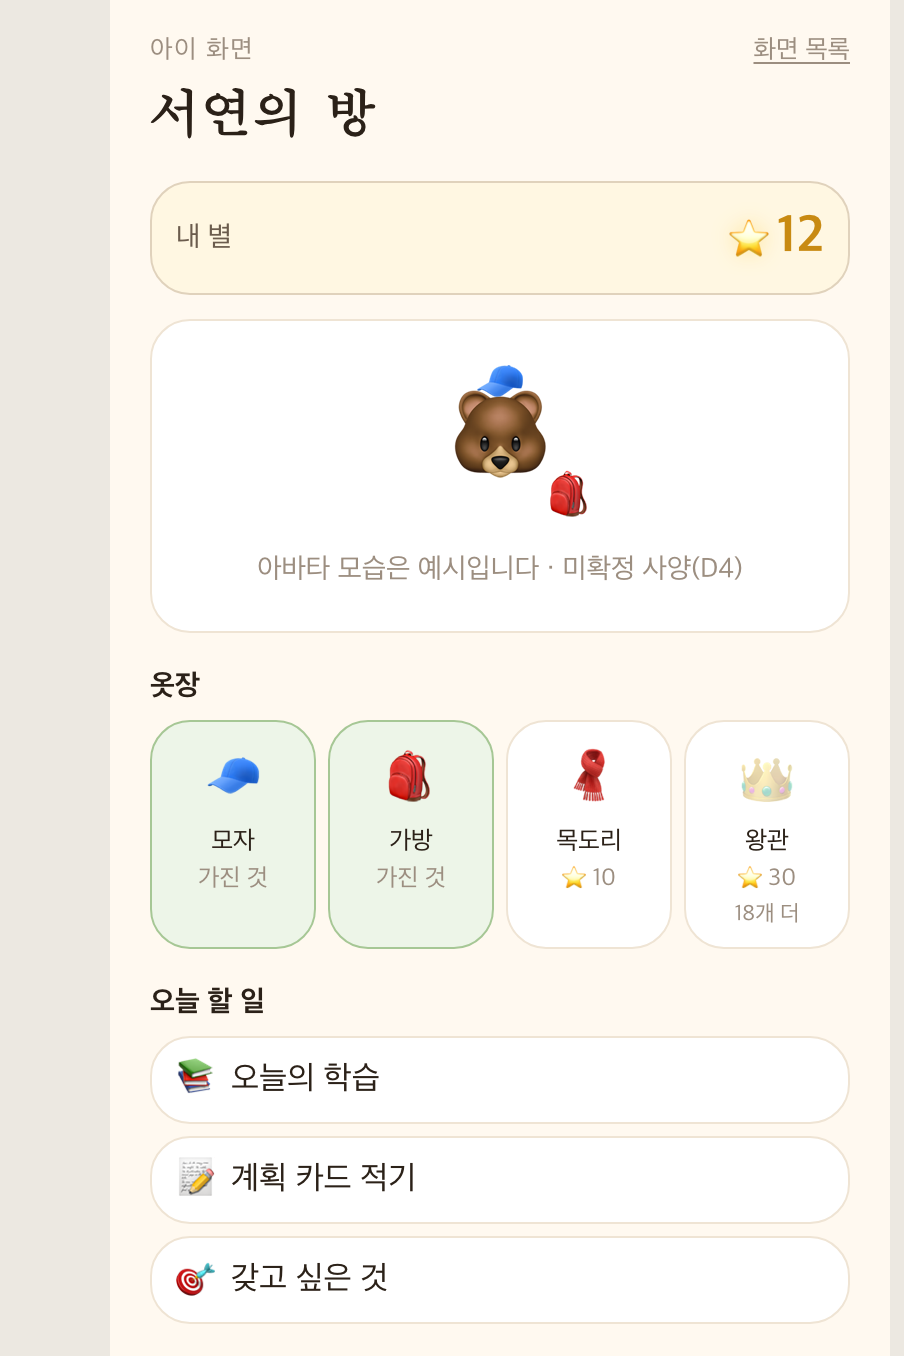
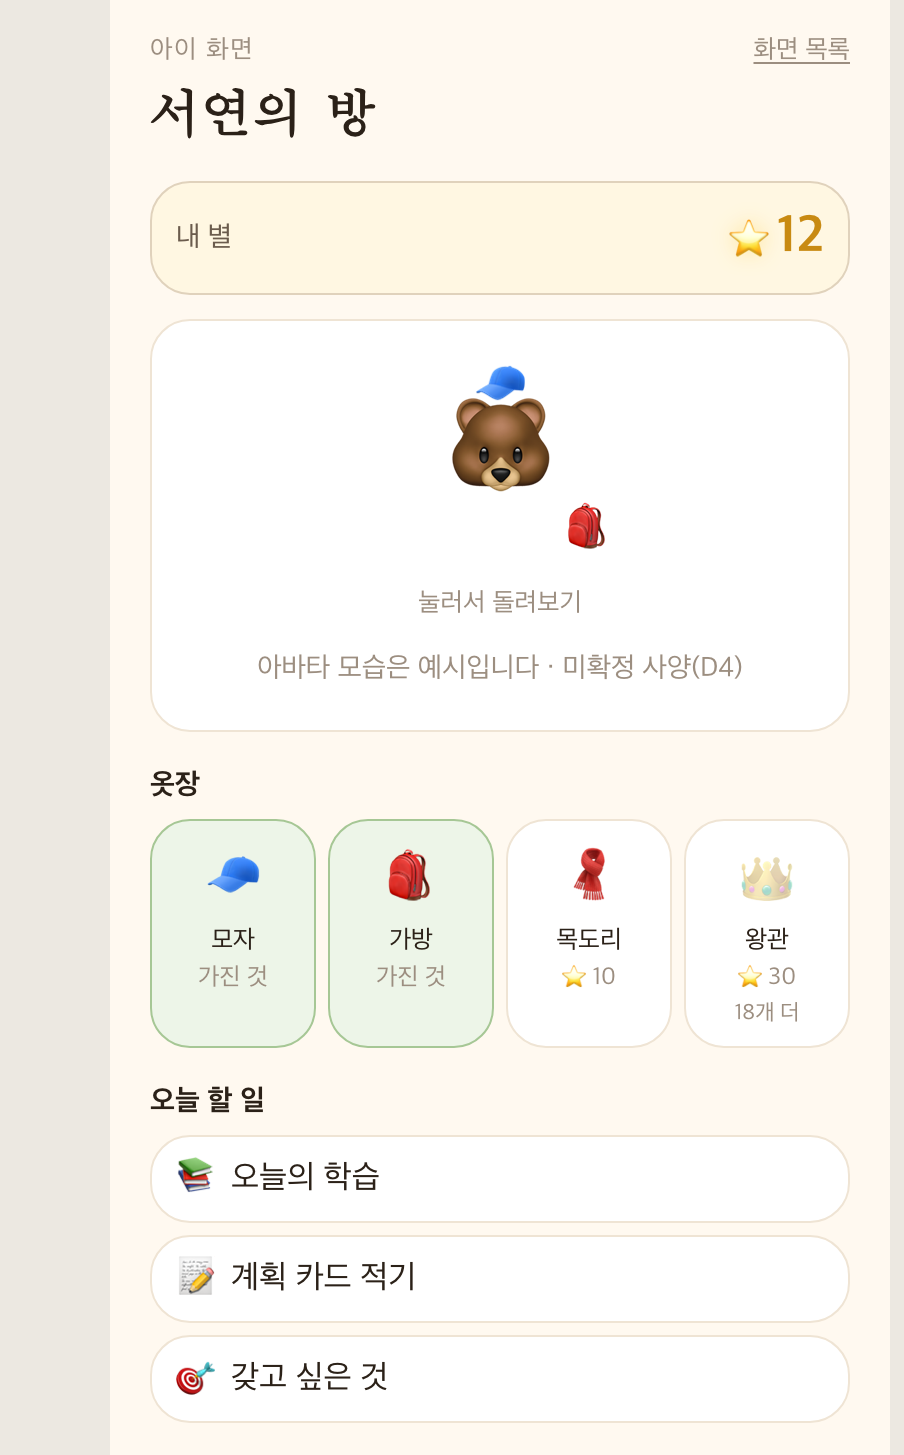
프로토타입: 아바타 회전을 CSS 3D 로 구현 — 렌더러를 추가하지 않는다
three.js 로 할 수 있느냐는 물음에서 출발했다. 기술은 되지만 우리 문서가 반대로 정해 뒀다.

- X2 (충돌 대장) — Tailwind·shadcn 은 3D 렌더러가 아니다 → Lottie 2.5D 로 사양 변경
- REQ-TEC-007 — UI 의존성 0건. 아바타 렌더러(Lottie)는 명시적 예외 1건
- STR-003 제약 — 다른 렌더러를 추가하지 않는다
- ADR-T05 — 3D 유지를 기각한 이유가 에셋 파이프라인·용량·저사양 기기다

그런데 ADR-T05 자신이 전환의 대가로 「회전이 사라진다」를 적었고,
그 전환은 D4 와 함께 아직 승인 전이다. 승인 여부를 판단하려면 회전이 있는 화면을 먼저 봐야 한다.

그래서 렌더러 없이 CSS 3D 로만 세웠다 — transform-style: preserve-3d + rotateY.
- 의존성 추가 0건 · 번들 증가 0KB · D4·B4 게이트를 되살리지 않는다
- 전환은 .ff-avatar-spin 클래스가 갖는다. 인라인 transition 은 prefers-reduced-motion 이 안 걸린다
- 뒷면에 다른 모습을 둔다 — 회전이 무언가를 보여줘야 값어치가 있다
- 촬영 통로 ?face=back 으로 뒷모습을 증거에 남긴다 (스크린샷 15 → 16장)

three.js 도입은 이 화면으로 회전의 값어치를 확인한 뒤에 판단한다.
도입한다면 REQ-TEC-007 예외를 2건으로 늘리는 결정이므로 X2 와 ADR-T05 를 함께 고쳐야 한다.

Refs #33 #63

diff --git a/app/src/components/child/Avatar.tsx b/app/src/components/child/Avatar.tsx
@@ -1,13 +1,57 @@
+"use client";
+
+import { useState } from "react";
+
 /**
- * 아바타 — 🔴 D4 미결(원장 T10). Lottie 2.5D 에셋이 없어 이모지 조합으로 세운다.
- * 에셋이 확정되면 이 컴포넌트만 갈아끼운다. 부르는 쪽은 손대지 않는다.
+ * 아바타 — 🔴 D4 미결(원장 T15). Lottie 2.5D 에셋이 아직 없다.
+ *
+ * 여기서 확인하려는 것은 **「회전」이 아이에게 의미가 있는가** 하나다.
+ * ADR-T05가 3D → 2.5D 전환의 대가로 *"회전이 사라진다"* 를 적어 뒀고, 그 결정은
+ * D4와 함께 **아직 승인 전**이다. 승인을 판단하려면 회전이 있는 화면을 먼저 봐야 한다.
+ *
+ * 그래서 렌더러를 추가하지 않고 **CSS 3D 로만** 세웠다 —
+ * REQ-TEC-007(UI 의존성 0건 · Lottie 예외 1건)을 건드리지 않고, 번들도 늘지 않는다.
+ * three.js 도입은 이 화면으로 회전의 값어치를 확인한 뒤에 판단한다.
  */
-export function Avatar({ face, hat, item }: { face: string; hat: string; item: string }) {
+export type AvatarLook = { face: string; hat: string; item: string; back: string };
+
+export function Avatar({ look, spin = true, initialTurned = false }: {
+  look: AvatarLook; spin?: boolean; initialTurned?: boolean;
+}) {
+  const [turned, setTurned] = useState(initialTurned);
+
   return (
-    <div className="relative mx-auto h-[86px] w-[86px]" aria-label="아바타">
-      <span className="absolute inset-x-0 top-[14px] text-[3.2rem] leading-none">{face}</span>
-      <span className="absolute inset-x-0 top-0 text-[1.5rem] leading-none">{hat}</span>
-      <span className="absolute -right-1 bottom-[6px] text-[1.5rem] leading-none">{item}</span>
+    <div className="grid justify-items-center gap-2">
+      <div className="[perspective:640px]">
+        <button
+          type="button"
+          onClick={() => spin && setTurned((v) => !v)}
+          aria-label={turned ? "아바타 앞모습 보기" : "아바타 뒷모습 보기"}
+          className="ff-avatar-spin relative block h-[104px] w-[104px] [transform-style:preserve-3d]"
+          style={{ transform: `rotateY(${turned ? 180 : 0}deg)` }}
+        >
+          {/* 앞면 */}
+          <span className="absolute inset-0 [backface-visibility:hidden]">
+            <span className="absolute inset-x-0 top-[18px] text-[3.4rem] leading-none">{look.face}</span>
+            <span className="absolute inset-x-0 top-0 text-[1.6rem] leading-none">{look.hat}</span>
+            <span className="absolute -right-1 bottom-[8px] text-[1.5rem] leading-none">{look.item}</span>
+          </span>
+
+          {/* 뒷면 — 회전이 실제로 무언가를 보여줘야 의미가 있다 */}
+          <span
+            className="absolute inset-0 [backface-visibility:hidden]"
+            style={{ transform: "rotateY(180deg)" }}
+          >
+            <span className="absolute inset-x-0 top-[18px] text-[3.4rem] leading-none">{look.back}</span>
+            <span className="absolute inset-x-0 top-0 text-[1.6rem] leading-none">{look.hat}</span>
+            <span className="absolute -left-1 bottom-[8px] text-[1.5rem] leading-none">{look.item}</span>
+          </span>
+        </button>
+      </div>
+
+      {spin ? (
+        <span className="text-[0.72em] text-ink-mute">눌러서 돌려보기</span>
+      ) : null}
     </div>
   );
 }

diff --git a/app/src/app/child/home/page.tsx b/app/src/app/child/home/page.tsx
@@ -7,14 +7,21 @@ import { me, wardrobe, todo } from "./home.fixture";
 // UX-003 · STR-003 — 아이가 여는 첫 화면
 export const metadata = { title: "내 방 · 핀프렌즈" };
 
-export default function ChildHomePage() {
+export default async function ChildHomePage({
+  searchParams,
+}: {
+  searchParams: Promise<{ face?: string }>;
+}) {
+  // 🔴 촬영 모드 — 회전한 뒷모습을 스크린샷에 담기 위한 통로다(명세 §7.3). UI 가 아니다.
+  const turned = (await searchParams).face === "back";
+
   return (
     <Screen role="아이 화면" title={`${me.name}의 방`} back={{ href: "/", label: "화면 목록" }}>
       <StarHUD balance={me.starBalance} />
 
       <div className="mt-3 rounded-card border border-line bg-surface py-5 text-center">
-        <Avatar {...me.avatar} />
-        <p className="mt-2 text-[0.78em] text-ink-mute">아바타 모습은 예시입니다 · 미확정 사양(D4)</p>
+        <Avatar look={me.avatar} initialTurned={turned} />
+        <p className="mt-3 text-[0.78em] text-ink-mute">아바타 모습은 예시입니다 · 미확정 사양(D4)</p>
       </div>
 
       <h2 className="mb-1.5 mt-4 text-[0.8em] font-bold">옷장</h2>

diff --git a/app/src/app/child/home/home.fixture.ts b/app/src/app/child/home/home.fixture.ts
@@ -6,7 +6,15 @@
  */
 export type Item = { readonly key: string; readonly emoji: string; readonly name: string; readonly cost: number; readonly owned: boolean };
 
-export const me = { name: "서연", starBalance: 12, avatar: { face: "🐻", hat: "🧢", item: "🎒" } };
+/**
+ * 아바타 모습 — 앞뒤 두 면. 회전이 무언가를 보여줘야 값어치가 있다.
+ * 🔴 D4 확정 시 이 값과 Avatar.tsx 를 함께 갈아끼운다.
+ */
+export const me = {
+  name: "서연",
+  starBalance: 12,
+  avatar: { face: "🐻", hat: "🧢", item: "🎒", back: "🧸" },
+};
 
 export const wardrobe: readonly Item[] = [
   { key: "cap",   emoji: "🧢", name: "모자",   cost: 5,  owned: true },

diff --git a/app/src/app/globals.css b/app/src/app/globals.css
@@ -277,6 +277,10 @@ body {
 .ff-star-earn { animation: var(--ff-star-anim) var(--ff-motion); }
 .ff-fade      { animation: ff-fade-in var(--ff-motion); }
 
+/* 아바타 회전 — 렌더러 없이 CSS 3D 로만 (원장 T15 · ADR-T05 재검토용) */
+.ff-avatar-spin { transition: transform var(--ff-motion); }
+
 @media (prefers-reduced-motion: reduce) {
   .ff-star-earn, .ff-fade { animation: none; }
+  .ff-avatar-spin { transition: none; }
 }

diff --git a/docs/grill/GRILL_LEDGER.md b/docs/grill/GRILL_LEDGER.md
@@ -26,7 +26,7 @@ MINOR: 5
 - [x] T12| CORE  | 첫 달(F4)의 나무가 정상(F1)과 같은 슬롯을 씀 | status:RESOLVED | decision:첫 달 전용 슬롯을 만든다 — 벌기 새싹 55% · 잘 쓰기 씨앗 30% · 모으기 씨앗 15%. 숲의 「별 12개 · 첫 달」과 앞뒤가 맞아야 한다 | applied:[Spec]…§6.2.1 · app/src/mocks/fixtures.ts · reports/proto/p1-first.png
 - [x] T13| CORE  | 화면 모형(한 페이지 3화면 + 상태 드롭다운)이 동선을 못 보여준다 | status:RESOLVED | decision:라우트 13건 앱으로 전환 — /consent · /parent/{onboarding,tree,forest,missions,spending} · /child/{home,learn,quiz/[topic],plan/new,retro/[recordId],wishlist,stars}. 나무는 우리 SRS대로 보호자 소유(UX-002 · GRW-003) | applied:[Spec]…§1.1 · app/src/app/**
 - [x] T14| CORE  | 아동 화면과 보호자 화면의 톤이 갈릴 자리가 없다 | status:RESOLVED | decision:듀얼 테마 — 같은 토큰 이름을 다른 값으로. data-mode 는 ModeFrame 하나만 단다. --ff-miss(테라코타)는 두 모드가 같다 — 보호자라고 빨강으로 바꾸지 않는다 | applied:[Spec]…§4.2 · app/src/app/globals.css
-- [x] T15| CORE  | 아바타 에셋 부재(D4)로 아동 홈을 계속 미룰 수 없다 | status:RESOLVED | decision:이모지 조합으로 세우고 화면에 「예시」를 적는다. D4는 여전히 미결이며 Avatar.tsx 만 갈아끼우면 된다. T10(범위 제외)을 이 결정이 대체한다 | applied:app/src/components/child/Avatar.tsx · [Spec]…§1.3
+- [x] T15| CORE  | 아바타 에셋 부재(D4)로 아동 홈을 계속 미룰 수 없다 | status:RESOLVED | decision:이모지 조합 + CSS 3D 회전으로 세우고 화면에 「예시」를 적는다. three.js 를 넣지 않는 이유는 REQ-TEC-007 예외를 늘리는 결정이고 D4·B4 게이트를 되살리기 때문이다. ADR-T05가 3D→2.5D 전환의 대가로 「회전이 사라진다」를 적었고 그 전환은 아직 승인 전이라, 회전이 있는 화면을 먼저 만들어 판단 근거로 삼는다. T10(범위 제외)을 이 결정이 대체한다 | applied:app/src/components/child/Avatar.tsx · [Spec]…§4.2.1 · reports/proto/child-home-back.png
 ```
 
 ---
